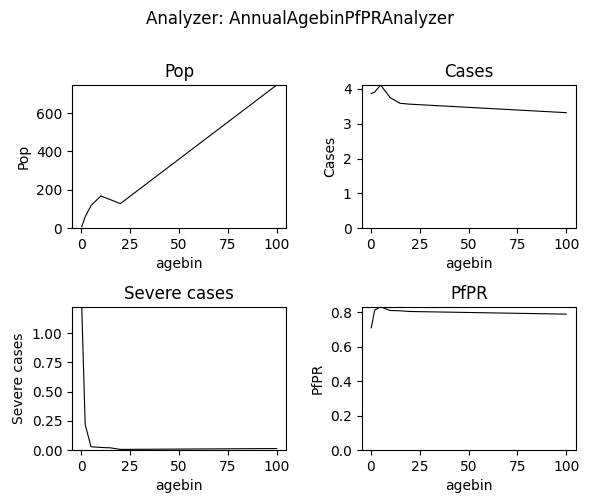
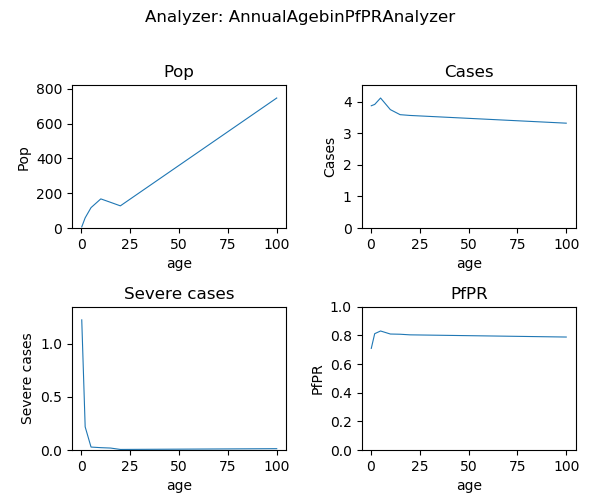
week2 edits JG

diff --git a/analyze_exampleSim_w2.py b/analyze_exampleSim_w2.py
@@ -1,17 +1,15 @@
 ## Import basic python functions
 import os
-import datetime
 import pandas as pd
 import numpy as np
 ## Import dtk and EMOD basics functionalities
 from simtools.Analysis.AnalyzeManager import AnalyzeManager
-from simtools.Analysis.BaseAnalyzers import BaseAnalyzer
 from simtools.SetupParser import SetupParser
-
-from analyzer_plots_collection import InsetChartAnalyzer, AnnualAgebinPfPRAnalyzer
+from analyzer_collection import InsetChartAnalyzer, AnnualAgebinPfPRAnalyzer
 ## For plotting
 import matplotlib.pyplot as plt
 import matplotlib as mpl
+import matplotlib.dates as mdates
 
 mpl.rcParams['pdf.fonttype'] = 42
 
@@ -20,13 +18,17 @@ SetupParser.default_block = 'LOCAL'
 
 user = os.getlogin()  # user initials
 expt_name = f'{user}_FE_2022_example_w2'
-expt_id = '2022_04_25_13_03_42_075543'  ## change expt_id
+expt_id = '2022_05_12_14_22_03_349994'  ## change expt_id
 working_dir = os.path.join('simulation_outputs')
 
 if __name__ == "__main__":
     SetupParser.init()
 
+    # set desired InsetChart channels to analyze and plot
+    channels_inset_chart = ['Statistical Population', 'New Clinical Cases', 'Adult Vectors', 'Infected']
+
     analyzers = [InsetChartAnalyzer(expt_name=expt_name,
+                                    channels=channels_inset_chart,
                                     working_dir=working_dir),
                  AnnualAgebinPfPRAnalyzer(expt_name=expt_name,
                                           working_dir=working_dir,
@@ -36,3 +38,46 @@ if __name__ == "__main__":
 
     am = AnalyzeManager(expt_id, analyzers=analyzers)
     am.analyze()
+
+    # read in analyzed InsetChart data
+    df = pd.read_csv(os.path.join(working_dir, expt_name, 'All_Age_InsetChart.csv'))
+    df['date'] = pd.to_datetime(df['date'])
+
+    # make InsetChart plot
+    fig1 = plt.figure('InsetChart', figsize=(12,6))
+    fig1.subplots_adjust(hspace=0.5, left=0.08, right=0.97)
+    fig1.suptitle(f'Analyzer: InsetChartAnalyzer')
+    for ch, channel in enumerate(channels_inset_chart) :
+        ax = fig1.add_subplot(2,2,ch+1)
+        ax.plot(df['date'], df[channel], '-', linewidth=0.8)
+        ax.set_title(channel)
+        ax.set_ylabel(channel)
+        ax.xaxis.set_major_locator(mdates.MonthLocator(interval=12))
+        ax.xaxis.set_major_formatter(mdates.DateFormatter('%Y-%m-%d'))
+    fig1.savefig(os.path.join(working_dir, expt_name, 'InsetChart.png'))
+
+    # read in analyzed summary reporrt
+    channels_summary_report = ['Pop', 'Cases', 'Severe cases', 'PfPR']
+    df = pd.read_csv(os.path.join(working_dir, expt_name, 'Agebin_PfPR_ClinicalIncidence_annual.csv'))
+    df = df.sort_values(by='agebin')
+    # take mean over all years in report
+    df = df.groupby(['agebin', 'Run_Number'])[channels_summary_report].agg(np.mean).reset_index()
+
+    # make summary report plot
+    fig2 = plt.figure('Summary Report', figsize=(6, 5))
+    fig2.subplots_adjust(right=0.96, left=0.12, hspace=0.55, wspace=0.35, top=0.83, bottom=0.10)
+    axes = [fig2.add_subplot(2, 2, x + 1) for x in range(4)]
+    fig2.suptitle(f'Analyzer: AnnualAgebinPfPRAnalyzer')
+
+    for ai, channel in enumerate(channels_summary_report):
+        ax = axes[ai]
+        ax.set_title(channel)
+        ax.set_ylabel(channel)
+        ax.set_ylim(0, max([1, 1.1*np.max(df[channel])]))
+        ax.set_xlabel('age')
+
+        ax.plot(df['agebin'], df[channel], '-', linewidth=0.8)
+
+    fig2.savefig(os.path.join(working_dir, expt_name, 'Agebin_PfPR_ClinicalIncidence.png'))
+
+    plt.show()

diff --git a/analyzer_collection.py b/analyzer_collection.py
@@ -25,7 +25,6 @@ class InsetChartAnalyzer(BaseAnalyzer):
                                            'PfHRP2 Prevalence']
         self.expt_name = expt_name
         self.start_year = start_year
-        self.end_year = end_year
 
     def select_simulation_data(self, data, simulation):
         simdata = pd.DataFrame({x: data[self.filenames[0]]['Channels'][x]['Data'] for x in self.inset_channels})
@@ -38,6 +37,8 @@ class InsetChartAnalyzer(BaseAnalyzer):
         for sweep_var in self.sweep_variables:
             if sweep_var in simulation.tags.keys():
                 simdata[sweep_var] = simulation.tags[sweep_var]
+            elif sweep_var == 'Run_Number' :
+                simdata[sweep_var] = 0
         return simdata
 
     def finalize(self, all_data):
@@ -62,7 +63,7 @@ MalariaSummaryReport Analyzer
 # AnnualAgebinPfPRAnalyzer
 class AnnualAgebinPfPRAnalyzer(BaseAnalyzer):
 
-    def __init__(self, expt_name, sweep_variables=None, agebin_name='customagebins', working_dir='./', start_year=2022,
+    def __init__(self, expt_name, sweep_variables=None, working_dir='./', start_year=2022,
                  end_year=2025, burnin=None):
 
         super(AnnualAgebinPfPRAnalyzer, self).__init__(working_dir=working_dir,
@@ -83,7 +84,7 @@ class AnnualAgebinPfPRAnalyzer(BaseAnalyzer):
             age_bins = data[fname]['Metadata']['Age Bins']
             pfpr2to10 = data[fname]['DataByTime']['PfPR_2to10'][:nyears]
 
-            for age in list(range(0, len(age_bins))):
+            for age in range(len(age_bins)):
                 d = data[fname]['DataByTimeAndAgeBins']['PfPR by Age Bin'][:nyears]
                 pfpr = [x[age] for x in d]
                 d = data[fname]['DataByTimeAndAgeBins']['Annual Clinical Incidence by Age Bin'][:nyears]
@@ -108,6 +109,8 @@ class AnnualAgebinPfPRAnalyzer(BaseAnalyzer):
                     adf[sweep_var] = simulation.tags[sweep_var]
                 except:
                     adf[sweep_var] = '-'.join([str(x) for x in simulation.tags[sweep_var]])
+            elif sweep_var == 'Run_Number' :
+                adf[sweep_var] = 0
 
         return adf
 
@@ -128,7 +131,7 @@ class AnnualAgebinPfPRAnalyzer(BaseAnalyzer):
         if self.burnin is not None:
             adf = adf[adf['year'] >= self.start_year + self.burnin]
         adf = adf.loc[adf['agebin'] <= 100]
-        adf.to_csv((os.path.join(self.working_dir, 'Agebin_PfPR_ClinicalIncidence_annual.csv')), index=False)
+        adf.to_csv(os.path.join(self.working_dir, self.expt_name, 'Agebin_PfPR_ClinicalIncidence_annual.csv'), index=False)
 
 
 # MonthlyAgebinPfPRAnalyzer

diff --git a/generate_input_files.py b/generate_input_files.py
@@ -9,7 +9,7 @@ from dtk.tools.climate.ClimateGenerator import ClimateGenerator
 
 def generate_demographics(demo_df, demo_fname):
     # Get WorldBank birth rate estimate
-    # UPDATE country and birthrate_year
+    # UPDATE country and birthrate_year if needed
     br_concern = WorldBankBirthRateConcern(country="Ghana", birthrate_year=2016)
 
     chain = [
@@ -18,16 +18,13 @@ def generate_demographics(demo_df, demo_fname):
         EquilibriumAgeDistributionConcern(default_birth_rate=br_concern.default_birth_rate),
     ]
 
-    current: Dict[str,
-                  Union[List[Dict[str, Union[Union[int, Dict[Any, Any]], Any]]],
-                        Dict[Any, Any],
-                        Dict[str, Union[str, int]]]] = DemographicsGenerator.from_dataframe(demo_df,
-                                                                                            population_column_name='population',
-                                                                                            nodeid_column_name='nodeid',
-                                                                                            node_id_from_lat_long=False,
-                                                                                            concerns=chain,
-                                                                                            load_other_columns_as_attributes=True,
-                                                                                            include_columns=['Village'])
+    current = DemographicsGenerator.from_dataframe(demo_df,
+                                                   population_column_name='population',
+                                                   nodeid_column_name='nodeid',
+                                                   node_id_from_lat_long=False,
+                                                   concerns=chain,
+                                                   load_other_columns_as_attributes=True,
+                                                   include_columns=['Village'])  # Add any "optional" columns
 
     with open(demo_fname, 'w') as fout:
         json.dump(current, fout, sort_keys=True, indent=4, separators=(',', ': '))
@@ -51,7 +48,6 @@ if __name__ == '__main__':
     if not os.path.exists(inputs_path):
         os.mkdir(inputs_path)
 
-    # df = pd.read_csv( os.path.join(os.getcwd(), 'my_node.csv')
     df = pd.DataFrame(data={'nodeid': [1], 'population': [1400], 'Village': ['Obom'],
                             'lat': [5.760759295941768], 'lon': [-0.4473415119456551]})
 

diff --git a/README.md b/README.md
@@ -126,8 +126,8 @@ EMOD How To's:
 <details><summary><span>Click here to expand</span></summary>
 <p>
 
-- Create _demographics_ and _climate_ files via `generate_input_files.py` _(requires access to COMPS for climate database)_
-- Update default parameters in `python run_exampleSim.py`:
+- Create _demographics_ and _climate_ files via `python generate_input_files.py` _(requires access to COMPS for climate database : ask someone from NU team)_
+- Update default parameters in `run_exampleSim.py`:
 
     ```py
     cb.update_params({
@@ -139,38 +139,18 @@ EMOD How To's:
         "Age_Initialization_Distribution_Type": 'DISTRIBUTION_COMPLEX'
     })
     ```
-- Add custom reporter with annual summary for different age groups (see EMOD How To's) or suggested example below:
+- Add custom reporter with annual summary for different age groups (see EMOD How To's) or suggested example below. Add the import statement at the top and the call to `add_summary_report()` around line 26 (before `run_sim_args` is defined):
   ```py
   from malaria.reports.MalariaReport import add_summary_report
   add_summary_report(cb, start=1, interval=365,
                    age_bins=[0.25, 2, 5, 10, 15, 20, 100, 120], 
                    description='Annual_Agebin')
   ```
-- Increase simulation duration from 1 to 3 years by modifying DTKConfigBuilder as below:
+- Increase simulation duration from 1 to 3 years by modifying the initial call to DTKConfigBuilder:
   ```py 
   years = 3
   cb = DTKConfigBuilder.from_defaults('MALARIA_SIM', Simulation_Duration=years*365)
   ```
-- Add a simple  ModBuilder code chunk, that allows to run multiple simulations and assigning each one tags required in postprocessing.
-  The ModBuilder will be discussed more in detail in the following week, so don't worry about understanding it all this week:
-  ```py 
-  from simtools.ModBuilder import ModBuilder, ModFn
-  ```
-  ```py 
-  numseeds = 1
-  builder = ModBuilder.from_list([[ModFn(DTKConfigBuilder.set_param, 'Run_Number', x),
-                                   ModFn(DTKConfigBuilder.set_param, 'Scenario', 'Basic')]
-                                  for x in range(numseeds)])
-  ```
-   - in addition `'exp_builder': builder` needs to be added to the `run_sim_args` object:
-      ```py 
-      run_sim_args = {
-          'exp_name': f'{user}_FE_2022_example_w2',
-          'config_builder': cb,
-          'exp_builder': builder
-      }
-      ```  
-
 - Change _exp_name_  for week 2 `f'{user}_FE_2022_example_w2'`
 - Run simulation as learned in week 1 and wait for simulation to finish (~5 minutes)
     - Note, if there are problems with running locally, you can peek into [Week 6](#week6) on how to
